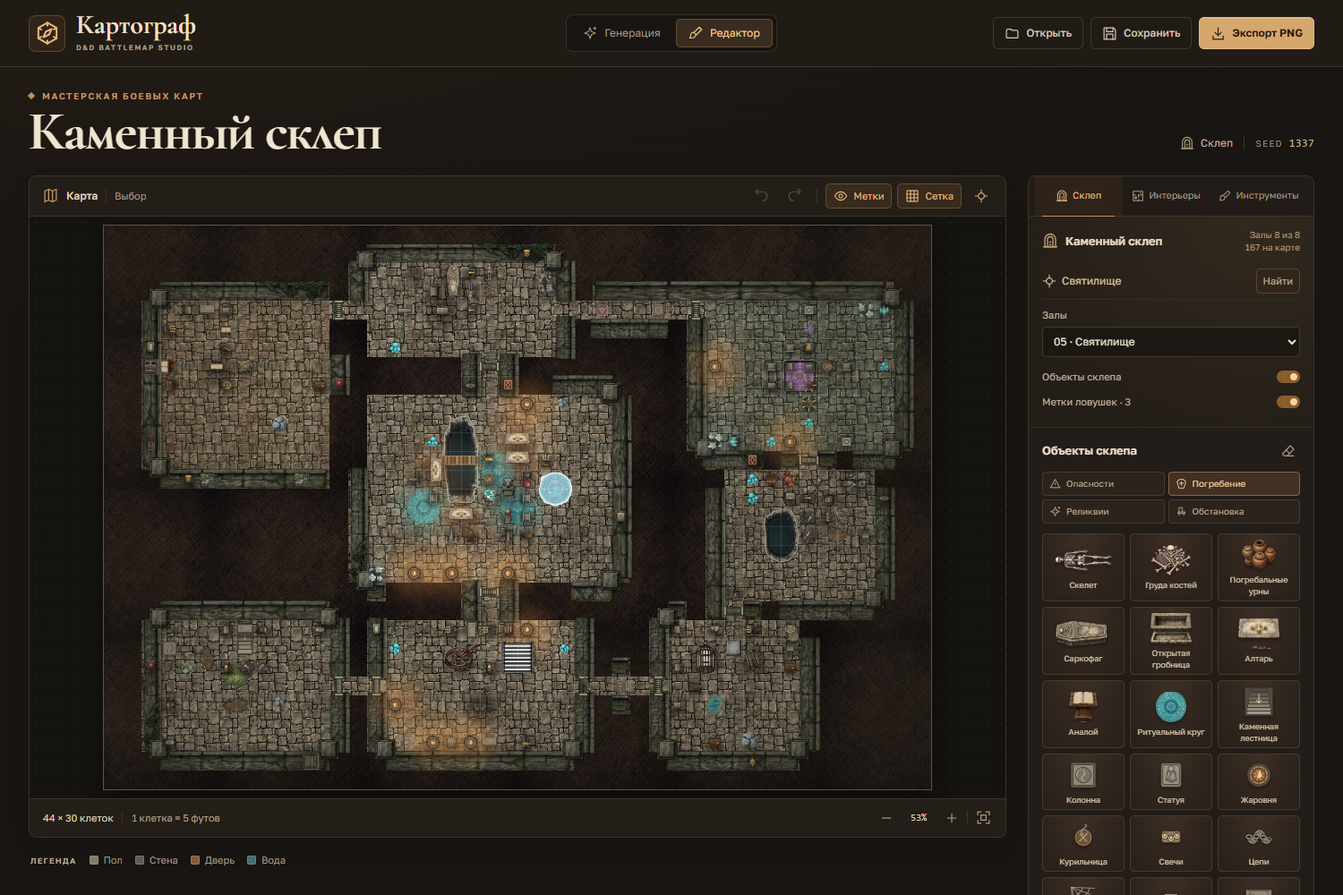
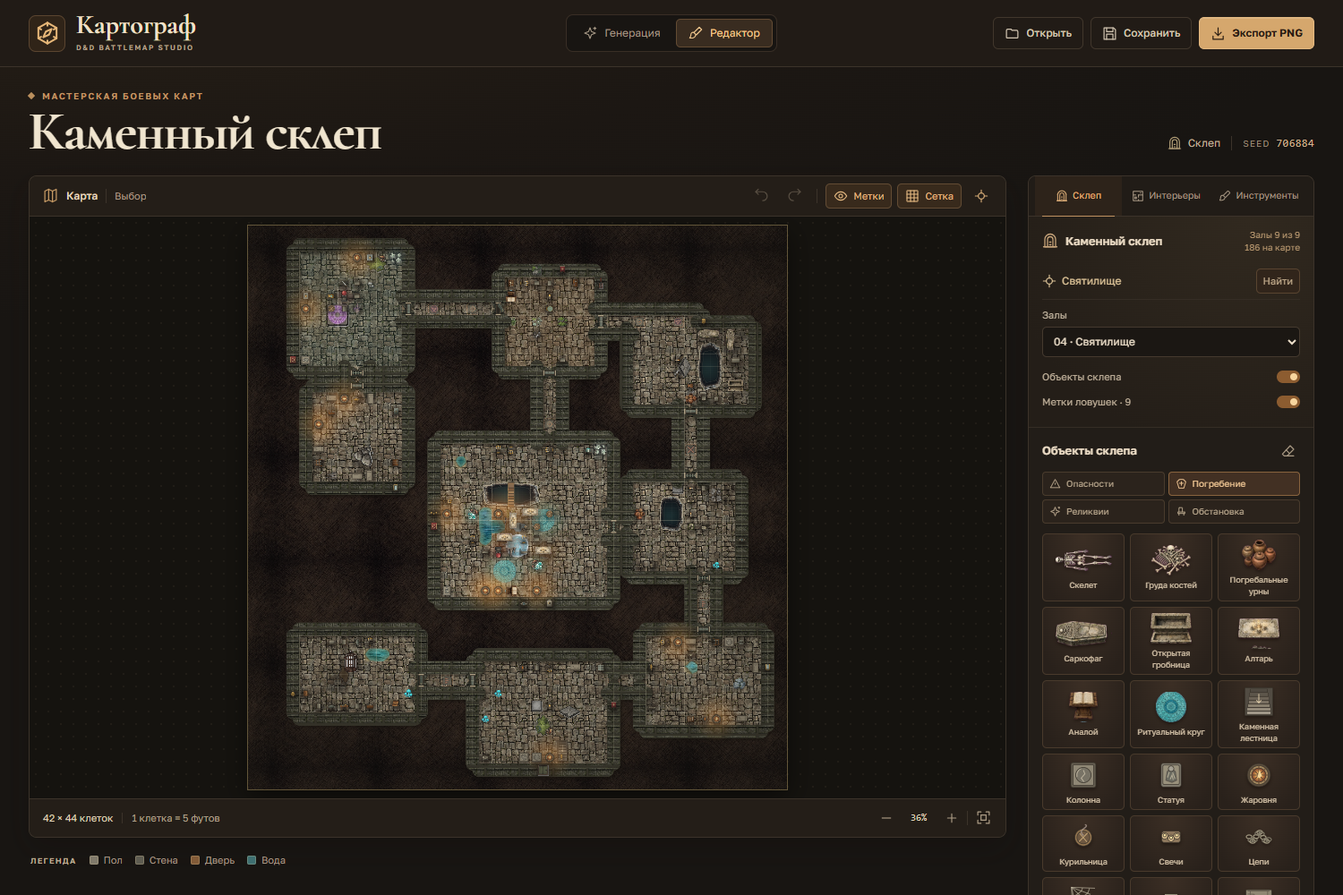
fix: стены лентой по контуру вместо квадратных блоков

Changed region(s): [[0.092, 0.248, 0.7053, 0.868], [0.8587, 0.155, 0.9813, 0.186], [0.0307, 0.899, 0.0613, 0.93]]

diff --git a/src/lib/wallPaint.ts b/src/lib/wallPaint.ts
@@ -1,148 +1,89 @@
 import { getAssets } from './assets';
-import { hash2 } from './random';
 import type { MapData } from './types';
 
-/** РљР»РµС‚РєР° вЂ” СЃС‚РµРЅР°? */
-const isWall = (map: MapData, x: number, y: number) => map.cells[y]?.[x]?.terrain === 'wall';
-
-interface Piece {
-  kind: 'h' | 'v' | 'junction' | 'single' | 'corner';
-  x: number;
-  y: number;
-  len: number;
-  img: HTMLImageElement;
-  center?: [number, number];
-}
+const floorLike = (map: MapData, x: number, y: number) => {
+  const t = map.cells[y]?.[x]?.terrain;
+  return t === 'floor' || t === 'door';
+};
+const wallEdge = (map: MapData, x: number, y: number) => {
+  const t = map.cells[y]?.[x]?.terrain;
+  return t === 'wall' || t === 'void' || t === undefined;
+};
 
 /**
- * Р РёСЃСѓРµС‚ СЃС‚РµРЅС‹ СЃРїСЂР°Р№С‚Р°РјРё РёР· Р»РёСЃС‚Р°: РґР»РёРЅРЅС‹Рµ РїРѕР»РѕСЃС‹, РїРѕРІРѕСЂРѕС‚С‹ Рё СЃС‚РѕР»Р±С‹.
- * Р’РѕР·РІСЂР°С‰Р°РµС‚ false, РµСЃР»Рё СЃРїСЂР°Р№С‚С‹ РµС‰С‘ РЅРµ Р·Р°РіСЂСѓР¶РµРЅС‹ (С‚РѕРіРґР° РІС‹Р·С‹РІР°СЋС‰РёР№ РєРѕРґ
- * РёСЃРїРѕР»СЊР·СѓРµС‚ СЃС‚Р°СЂС‹Р№ РїСЂРѕС†РµРґСѓСЂРЅС‹Р№ СЂРµРЅРґРµСЂ).
+ * РЎС‚РµРЅРЅРѕР№ СЂРµРЅРґРµСЂ В«РїРѕР»РѕСЃР°РјРё РїРѕ РєРѕРЅС‚СѓСЂСѓВ».
+ *
+ * Р’РјРµСЃС‚Рѕ СЂР°СЃРєР»Р°РґРєРё РєРІР°РґСЂР°С‚РЅС‹С… СЃРїСЂР°Р№С‚РѕРІ РїРѕ РєР»РµС‚РєР°Рј РѕР±С…РѕРґРёРј РіСЂР°РЅРёС†Сѓ РїРѕР»Р° Рё
+ * СЂРёСЃСѓРµРј С‚РѕР»СЃС‚СѓСЋ РєР°РјРµРЅРЅСѓСЋ Р»РµРЅС‚Сѓ СЃ РєСЂСѓРіР»С‹РјРё СЃС‚С‹РєР°РјРё. РЈРіР»С‹ РєРѕРјРЅР°С‚ РїРѕР»СѓС‡Р°СЋС‚СЃСЏ
+ * СЃРєСЂСѓРіР»С‘РЅРЅС‹РјРё, Р° РЅРµ РєРІР°РґСЂР°С‚РЅС‹РјРё; С‰РµР»РµР№ РјРµР¶РґСѓ РєР»РµС‚РєР°РјРё РЅРµС‚ РїРѕ РїРѕСЃС‚СЂРѕРµРЅРёСЋ.
  */
 export function drawWalls(
   ctx: CanvasRenderingContext2D,
   map: MapData,
   cs: number,
-  seed: number,
+  _seed: number,
   shading: boolean,
 ): boolean {
   const art = getAssets().art;
-  const straight = art['wall-straight'];
-  const ivy = art['wall-straightIvy'];
-  const short = art['wall-straightShort'];
-  const pillar = art['wall-pillar'];
-  const column = art['wall-column'];
-  const end = art['wall-end'];
-  if (!straight || !pillar) return false;
+  const wall = art['wall-straight'];
+  if (!wall) return false;
 
-  const W = map.width;
-  const H = map.height;
-  const wall = (x: number, y: number) => x >= 0 && y >= 0 && x < W && y < H && isWall(map, x, y);
-  const horizontal = (x: number, y: number) => wall(x - 1, y) || wall(x + 1, y);
-  const vertical = (x: number, y: number) => wall(x, y - 1) || wall(x, y + 1);
-  const flatH = (x: number, y: number) => wall(x, y) && horizontal(x, y) && !vertical(x, y);
-  const flatV = (x: number, y: number) => wall(x, y) && vertical(x, y) && !horizontal(x, y);
-
-  const pieces: Piece[] = [];
-  const seen = new Set<string>();
-  const key = (x: number, y: number) => `${x},${y}`;
-  const pick = (x: number, y: number, salt: number) => hash2(x, y, seed + salt);
-
-  for (let y = 0; y < H; y++) for (let x = 0; x < W; x++) {
-    if (!wall(x, y)) continue;
-    const h = horizontal(x, y);
-    const v = vertical(x, y);
-    if (h && v) {
-      const v2 = pick(x, y, 7101);
-      pieces.push({ kind: 'junction', x, y, len: 1, img: v2 > .72 && column ? column : pillar });
-      continue;
-    }
-    if (!h && !v) {
-      if (end) pieces.push({ kind: 'single', x, y, len: 1, img: end });
-      continue;
-    }
-    if (h) {
-      if (seen.has(key(x, y))) continue;
-      let x0 = x;
-      while (flatH(x0 - 1, y)) x0--;
-      let x1 = x;
-      while (flatH(x1 + 1, y)) x1++;
-      for (let i = x0; i <= x1; i++) seen.add(key(i, y));
-      const len = x1 - x0 + 1;
-      const v = pick(x0, y, 9101);
-      const img = len <= 1 && end ? end : len <= 2 && short && v > .55 ? short : v > .78 && ivy ? ivy : straight;
-      pieces.push({ kind: 'h', x: x0, y, len, img });
-    } else {
-      if (seen.has(key(x, y))) continue;
-      let y0 = y;
-      while (flatV(x, y0 - 1)) y0--;
-      let y1 = y;
-      while (flatV(x, y1 + 1)) y1++;
-      for (let i = y0; i <= y1; i++) seen.add(key(x, i));
-      const len = y1 - y0 + 1;
-      const v = pick(x, y0, 9201);
-      const img = len <= 1 && end ? end : len <= 2 && short && v > .55 ? short : v > .78 && ivy ? ivy : straight;
-      pieces.push({ kind: 'v', x, y: y0, len, img });
-    }
+  const offset = cs * 0.5;
+  const segments: [number, number, number, number][] = [];
+  for (let y = 0; y < map.height; y++) for (let x = 0; x < map.width; x++) {
+    if (!floorLike(map, x, y)) continue;
+    const left = x * cs, right = (x + 1) * cs;
+    const top = y * cs, bottom = (y + 1) * cs;
+    if (wallEdge(map, x, y - 1)) segments.push([left, top - offset, right, top - offset]);
+    if (wallEdge(map, x, y + 1)) segments.push([left, bottom + offset, right, bottom + offset]);
+    if (wallEdge(map, x - 1, y)) segments.push([left - offset, top, left - offset, bottom]);
+    if (wallEdge(map, x + 1, y)) segments.push([right + offset, top, right + offset, bottom]);
   }
+  if (!segments.length) return true;
 
-  // РЈ РєРѕРјРЅР°С‚ СЌС‚РѕР№ РёРіСЂС‹ СѓРіР»С‹ С‡Р°СЃС‚Рѕ В«СЃРєРѕС€РµРЅС‹В»: РіРѕСЂРёР·РѕРЅС‚Р°Р»СЊРЅР°СЏ СЃС‚РµРЅР° Рё
-  // РІРµСЂС‚РёРєР°Р»СЊРЅР°СЏ РІСЃС‚СЂРµС‡Р°СЋС‚СЃСЏ РїРѕ РґРёР°РіРѕРЅР°Р»Рё, Р±РµР· РѕР±С‰РµР№ СѓРіР»РѕРІРѕР№ РєР»РµС‚РєРё.
-  // Р—Р°РєСЂС‹РІР°РµРј С‚Р°РєРёРµ СЃС‚С‹РєРё СЃС‚РѕР»Р±РѕРј РІ РїСѓСЃС‚РѕР№ РєР»РµС‚РєРµ, РёРЅР°С‡Рµ РІРёРґРµРЅ С‚С‘РјРЅС‹Р№ СЂР°Р·СЂС‹РІ.
-  for (let y = 0; y < H; y++) for (let x = 0; x < W; x++) {
-    if (wall(x, y)) continue;
-    if (map.cells[y]?.[x]?.terrain !== 'void') continue;
-    const n = wall(x, y - 1), s = wall(x, y + 1), e = wall(x + 1, y), w = wall(x - 1, y);
-    let center: [number, number] | undefined;
-    if (n && w) center = [x, y];
-    else if (n && e) center = [x + 1, y];
-    else if (s && w) center = [x, y + 1];
-    else if (s && e) center = [x + 1, y + 1];
-    if (center) pieces.push({ kind: 'corner', x, y, len: 1, img: pillar, center });
-  }
-
-  if (!pieces.length) return true;
-
-  const overlap = cs * 0.22;
-  const thickness = cs * 1.28;
-  const runs = pieces.filter((p) => p.kind === 'h' || p.kind === 'v');
-  const posts = pieces.filter((p) => p.kind !== 'h' && p.kind !== 'v');
-
-  const paintPiece = (p: Piece) => {
-    if (p.kind === 'h') {
-      const w = p.len * cs + overlap * 2;
-      ctx.drawImage(p.img, p.x * cs - overlap, p.y * cs - cs * 0.10, w, thickness);
-    } else if (p.kind === 'v') {
-      const len = p.len * cs + overlap * 2;
-      ctx.save();
-      ctx.translate((p.x + .5) * cs, (p.y + p.len / 2) * cs);
-      ctx.rotate(Math.PI / 2);
-      ctx.drawImage(p.img, -len / 2, -thickness / 2, len, thickness);
-      ctx.restore();
-    } else {
-      const s = cs * (p.kind === 'single' ? 1.08 : p.kind === 'corner' ? 1.34 : 1.30);
-      const cx = (p.center?.[0] ?? p.x + .5) * cs;
-      const cy = (p.center?.[1] ?? p.y + .5) * cs;
-      ctx.drawImage(p.img, cx - s / 2, cy - s / 2 - cs * .04, s, s);
+  const band = cs * 1.05;
+  const path = () => {
+    ctx.beginPath();
+    for (const [x0, y0, x1, y1] of segments) {
+      ctx.moveTo(x0, y0);
+      ctx.lineTo(x1, y1);
     }
   };
 
-  const paint = (withShadow: boolean) => {
-    ctx.save();
-    if (withShadow) {
-      ctx.shadowColor = 'rgba(18,14,10,.44)';
-      ctx.shadowBlur = cs * 0.16;
-      ctx.shadowOffsetX = cs * 0.07;
-      ctx.shadowOffsetY = cs * 0.10;
-    }
-    runs.forEach(paintPiece);
-    posts.forEach(paintPiece);
-    ctx.restore();
-  };
+  ctx.save();
+  ctx.lineCap = 'round';
+  ctx.lineJoin = 'round';
 
-  if (shading) paint(true);
-  paint(false);
+  // РўС‘РјРЅРѕРµ РѕСЃРЅРѕРІР°РЅРёРµ: РѕРЅРѕ Р¶Рµ РєРѕРЅС‚СѓСЂ Рё В«СЂР°СЃС‚РІРѕСЂВ» РјРµР¶РґСѓ РєР°РјРЅСЏРјРё.
+  if (shading) {
+    ctx.shadowColor = 'rgba(16,13,9,.55)';
+    ctx.shadowBlur = cs * 0.22;
+    ctx.shadowOffsetX = cs * 0.08;
+    ctx.shadowOffsetY = cs * 0.14;
+  }
+  ctx.strokeStyle = '#37352b';
+  ctx.lineWidth = band;
+  path();
+  ctx.stroke();
+
+  ctx.shadowColor = 'transparent';
+  const pattern = ctx.createPattern(wall, 'repeat');
+  if (pattern) {
+    pattern.setTransform(new DOMMatrix([cs / 210, 0, 0, cs / 210, 0, 0]));
+    ctx.strokeStyle = pattern;
+    ctx.lineWidth = band * 0.92;
+    path();
+    ctx.stroke();
+  }
+
+  // РЎРІРµС‚Р»Р°СЏ РєСЂРѕРјРєР° СЃРІРµСЂС…Сѓ: С‡РёС‚Р°РµС‚СЃСЏ РєР°Рє РІРµСЂС… РєР»Р°РґРєРё.
+  ctx.strokeStyle = 'rgba(184,176,146,.22)';
+  ctx.lineWidth = Math.max(1, cs * 0.05);
+  ctx.translate(0, -cs * 0.18);
+  path();
+  ctx.stroke();
+  ctx.translate(0, cs * 0.18);
+  ctx.restore();
   return true;
 }
-
 

diff --git a/src/lib/generator.ts b/src/lib/generator.ts
@@ -1,7 +1,7 @@
 import { Perlin } from './noise';
 import { cryptBlueprint, decorateCrypt } from './cryptLayout';
 import { generateSettlement } from './settlement';
-import { mulberry32, randInt, pick, type Rng } from './random';
+import { mulberry32, randInt, pick, hash2, type Rng } from './random';
 import type {
   Biome,
   Cell,
@@ -463,6 +463,41 @@ function generateDungeon(s: GenSettings): MapData {
     connect(entrance, wing); linked.push(wing);
   }
   if (rooms.length > 5) connect(rooms[1], rooms[rooms.length - 2]);
+
+  // Ломаем прямоугольную геометрию залов: вырезаем 1–2 ниши-алькова в стенах.
+  // Это не меняет число залов и дверей, но убирает одинаковые квадратные
+  // коробки и даёт стенам изломы, как на рисованных картах.
+  const corridorCell = Array.from({ length: h }, () => new Array<boolean>(w).fill(false));
+  for (const p of corridor) corridorCell[p.y][p.x] = true;
+  const shape = (x: number, y: number, salt: number) => hash2(x, y, s.seed + salt);
+  const canAlcove = (x: number, y: number, ox: number, oy: number) => {
+    if (!inBounds(x, y, w, h) || carved[y][x] || corridorCell[y][x]) return false;
+    for (let dy = -1; dy <= 1; dy++) for (let dx = -1; dx <= 1; dx++) {
+      if (dx === ox && dy === oy) continue;
+      const nx = x + dx, ny = y + dy;
+      if (inBounds(nx, ny, w, h) && (carved[ny][nx] || corridorCell[ny][nx])) return false;
+    }
+    return true;
+  };
+  for (const r of rooms) {
+    if (r.w < 6 || r.h < 6) continue;
+    for (let k = 0; k < 2; k++) {
+      if (shape(r.x, r.y, 1201 + k * 8) <= .38 + k * .20) continue;
+      const side = Math.floor(shape(r.x, r.y, 1202 + k * 8) * 4);
+      const ax = r.x + 1 + Math.floor(shape(r.x, r.y, 1203 + k * 8) * (r.w - 2));
+      const ay = r.y + 1 + Math.floor(shape(r.x, r.y, 1204 + k * 8) * (r.h - 2));
+      const spots: [number, number, number, number][] = [
+        [ax, r.y - 1, 0, 1], [ax, r.y + r.h, 0, -1],
+        [r.x - 1, ay, 1, 0], [r.x + r.w, ay, -1, 0],
+      ];
+      const [cx, cy, ox, oy] = spots[side];
+      if (canAlcove(cx, cy, ox, oy)) {
+        carved[cy][cx] = true;
+        // Альков — часть пола, но не прямоугольника зала: дверной проход
+        // может встать в него, поэтому roomCell не отмечаем.
+      }
+    }
+  }
 
   // Стены: слой клеток вплотную к полу. Внутренний слой двойной стены убираем,
   // чтобы между комнатами оставалась одна перегородка, а не две в ряд.

diff --git a/scripts/crypt-test.ts b/scripts/crypt-test.ts
@@ -25,8 +25,10 @@ const LIGHT_KINDS = new Set(['brazier', 'brazierStand', 'candleStand', 'candleHo
 const HAZARD_THEMES = new Set(['sanctum', 'burial', 'ossuary', 'storage']);
 const TRAP_KINDS = new Set(['pressureTile', 'spikeGlyph', 'runeTrap', 'fallSeal']);
 function doorNear(map: MapData, room: { x: number; y: number; w: number; h: number }) {
-  for (let x = room.x - 1; x <= room.x + room.w; x++) for (const y of [room.y - 1, room.y + room.h]) if (map.cells[y]?.[x]?.terrain === 'door') return true;
-  for (let y = room.y - 1; y <= room.y + room.h; y++) for (const x of [room.x - 1, room.x + room.w]) if (map.cells[y]?.[x]?.terrain === 'door') return true;
+  // У зала могут быть ниши-альковы, поэтому дверь ищем и на клетку дальше
+  // исходного прямоугольника.
+  for (let x = room.x - 2; x <= room.x + room.w + 1; x++) for (const y of [room.y - 2, room.y - 1, room.y + room.h, room.y + room.h + 1]) if (map.cells[y]?.[x]?.terrain === 'door') return true;
+  for (let y = room.y - 2; y <= room.y + room.h + 1; y++) for (const x of [room.x - 2, room.x - 1, room.x + room.w, room.x + room.w + 1]) if (map.cells[y]?.[x]?.terrain === 'door') return true;
   return false;
 }
 const themeAt = (map: MapData, x: number, y: number) => map.cryptRooms?.find((room) => contains(room, x, y))?.theme;

diff --git a/scripts/extract-wall-sheet.py b/scripts/extract-wall-sheet.py
@@ -1,11 +1,11 @@
-"""Нарезка листа стен на прозрачные детали для рендера.
+"""РќР°СЂРµР·РєР° Р»РёСЃС‚Р° СЃС‚РµРЅ РЅР° РїСЂРѕР·СЂР°С‡РЅС‹Рµ РґРµС‚Р°Р»Рё РґР»СЏ СЂРµРЅРґРµСЂР°.
 
-Источник: assets/source/sprite-sheet-walls.jpg (белый фон).
-Результат: src/assets/cartography/wall-<name>.webp.
+РСЃС‚РѕС‡РЅРёРє: assets/source/sprite-sheet-walls.jpg (Р±РµР»С‹Р№ С„РѕРЅ).
+Р РµР·СѓР»СЊС‚Р°С‚: src/assets/cartography/wall-<name>.webp.
 
-У листа есть мягкая серая тень вокруг деталей: она нейтральная по цвету
-(chroma ~0), а камень — зеленоватый. Поэтому кроме белого фона удаляем
-нейтральные светлые пиксели, иначе вокруг стен остаётся белый ореол.
+РЈ Р»РёСЃС‚Р° РµСЃС‚СЊ РјСЏРіРєР°СЏ СЃРµСЂР°СЏ С‚РµРЅСЊ РІРѕРєСЂСѓРі РґРµС‚Р°Р»РµР№: РѕРЅР° РЅРµР№С‚СЂР°Р»СЊРЅР°СЏ РїРѕ С†РІРµС‚Сѓ
+(chroma ~0), Р° РєР°РјРµРЅСЊ вЂ” Р·РµР»РµРЅРѕРІР°С‚С‹Р№. РџРѕСЌС‚РѕРјСѓ РєСЂРѕРјРµ Р±РµР»РѕРіРѕ С„РѕРЅР° СѓРґР°Р»СЏРµРј
+РЅРµР№С‚СЂР°Р»СЊРЅС‹Рµ СЃРІРµС‚Р»С‹Рµ РїРёРєСЃРµР»Рё, РёРЅР°С‡Рµ РІРѕРєСЂСѓРі СЃС‚РµРЅ РѕСЃС‚Р°С‘С‚СЃСЏ Р±РµР»С‹Р№ РѕСЂРµРѕР».
 """
 from PIL import Image, ImageFilter
 import numpy as np
@@ -16,7 +16,7 @@ ROOT = Path(__file__).resolve().parent.parent
 SRC = ROOT / 'assets' / 'source' / 'sprite-sheet-walls.jpg'
 OUT = ROOT / 'src' / 'assets' / 'cartography'
 
-# (имя, x0, y0, x1, y1) — bbox детали на листе
+# (РёРјСЏ, x0, y0, x1, y1) вЂ” bbox РґРµС‚Р°Р»Рё РЅР° Р»РёСЃС‚Рµ
 SPRITES = [
     ('straight', 1792, 43, 2344, 213),
     ('straightIvy', 1037, 37, 1745, 231),
@@ -74,3 +74,5 @@ def main() -> None:
 
 if __name__ == '__main__':
     main()
+
+

diff --git a/README.md b/README.md
@@ -30,7 +30,7 @@
 - Лужи появляются по низким местам зала при затопленности выше ~50 % и проходимы: вода не разрезает помещение. Ловушки смещаются к дверным проёмам, но не встают на сам проём.
 - У каждого предмета указана роль размещения: вдоль стен, в центре зала или в углу. Проходы между комнатами и дверные проёмы остаются свободными, а тайные ловушки не попадают на проход.
 - Между комнатами получается одна перегородка: внутренний слой двойной стены убирается, поэтому в склепе больше нет рядов стен в два ряда.
-- Стены рисуются из спрайт-листа: длинные секции, короткие вставки с трещинами и плющом, угловые блоки и столбы. Скошенные углы комнат закрываются угловыми блоками, поэтому нет тёмных разрывов; сетка не пересекает стены.
+- Стены рисуются каменной лентой по контуру пола: спрайт кладки идёт вдоль границы залов и коридоров, углы скругляются, отдельных квадратных блоков и щелей между клетками нет. Залы получают ниши-альковы, поэтому перестают быть одинаковыми коробками; сетка не пересекает стены.
 - Предмет выбирается клавишей `V` и кликом, после чего его можно двигать зажатой левой кнопкой мыши — в том числе с любым другим инструментом. Клавиши-стрелки для движения убраны. Поворот на 180° доступен кнопкой в инспекторе.
 - В «Склепе» 224 вида объектов в четырёх категориях: опасности, погребение, реликвии и обстановка. В каждой категории не меньше 20 предметов.
 - Из спрайт-листа добавлены 26 природных объектов: валуны и осыпи, сталагмиты и сталактиты, лужи (вода, грязь, кислота), каменный колодец, мох, кустарник, плющ на стене, корни, лишайник, трещины, гнёзда, кости, брёвна и кристаллы. Белый фон у спрайтов удалён, все WebP прозрачные.
@@ -101,7 +101,7 @@
 - `src/lib/chests.ts` — три сундука и проверка их размещения; `src/lib/doors.ts` — отделка дверей и ориентация проёмов.
 - `src/lib/settlementEdits.ts` — ручные постройки, предметы обстановки, штампы объектов и объединение с новой планировкой.
 - `src/lib/render.ts` — сборка карты, двери, мосты, тени, спрайты и сетка.
-- `src/lib/wallPaint.ts` — спрайтовый рендер стен: полосы, стыки, углы и столбы.
+- `src/lib/wallPaint.ts` — рендер стен каменной лентой по контуру пола (скруглённые углы, без квадратных блоков).
 - `src/lib/terrainPaint.ts` — непрерывная отрисовка рельефа, берегов и материалов.
 - `src/lib/assets.ts` — декодирование встроенных материалов и спрайтов.
 - `src/lib/edits.ts` — неизменяемые операции редактора.

diff --git a/docs/crypt/README.md b/docs/crypt/README.md
@@ -32,9 +32,9 @@
   фоне: ямы, шипы, пилы, решётки, плиты, шестерни, рычаги, двери, клетки, руны.
 - `app-traps.png`, `app-traps-zoom.png` — приложение после добавления ловушек:
   рунные круги, статуи, клетки, шипованные колёса и решётки в рендере.
-- `sprites-walls.png` — 7 деталей стен на тёмном фоне: длинные секции, плющ,
-  короткая вставка, угловой блок, колонна, торец и обломки.
-- `app-walls.png`, `app-walls-zoom.png`, `app-walls-small.png`,
-  `app-walls-catacombs.png` — новый спрайтовый рендер стен: стыки, скошенные
-  углы, столбы, сетка больше не пересекает кладку.
+- `sprites-walls.png` — исходные детали стен на тёмном фоне: длинные секции,
+  плющ, короткая вставка, угловой блок, колонна, торец и обломки.
+- `app-walls.png`, `app-walls-small.png` — новый рендер стен: каменная лента
+  идёт по контуру пола, углы скруглены, отдельных квадратных блоков и щелей
+  нет; комнаты получают ниши-альковы.
 - `seed-1337-report.json` — выгрузка залов и предметов для проверки.
